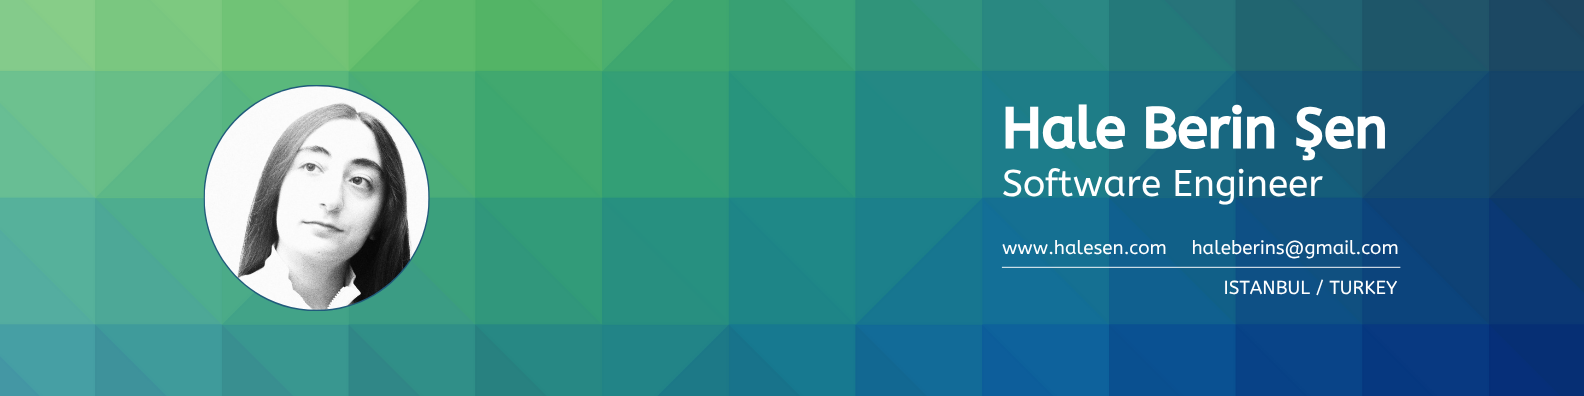
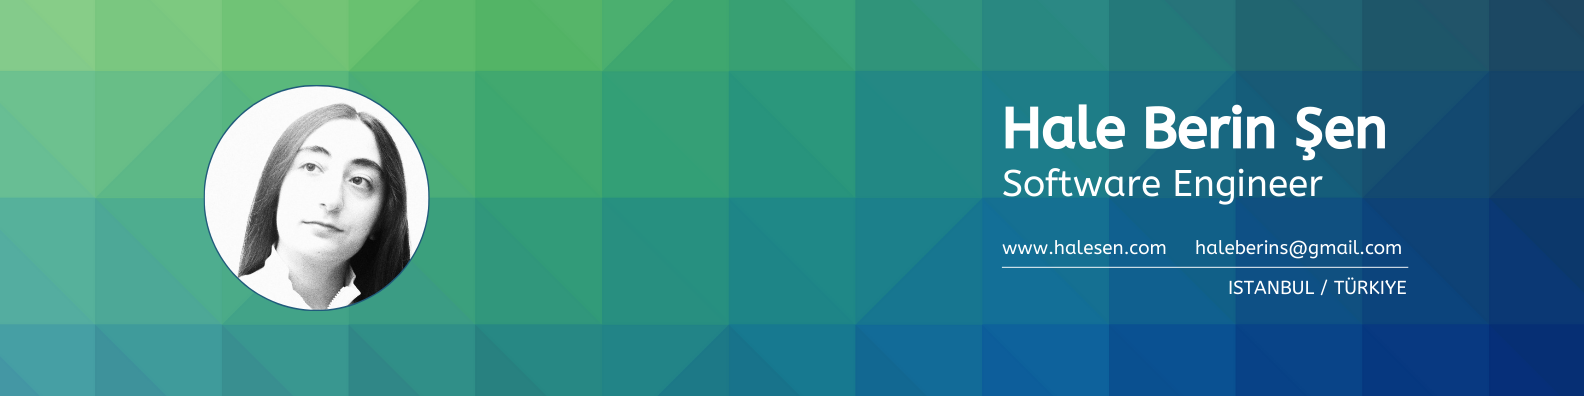
Feat:Fixed bugs

Changed region(s): [[0.7424, 0.6061, 0.8971, 0.6667], [0.7734, 0.697, 0.8971, 0.7576]]

diff --git a/src/components/navigations/TopNavBar.tsx b/src/components/navigations/TopNavBar.tsx
@@ -1,3 +1,4 @@
+import { useState } from "react";
 import AppBar from "@mui/material/AppBar";
 import Toolbar from "@mui/material/Toolbar";
 import Typography from "@mui/material/Typography";
@@ -5,6 +6,13 @@ import Button from "@mui/material/Button";
 import IconButton from "@mui/material/IconButton";
 import Brightness4Icon from "@mui/icons-material/Brightness4";
 import Brightness7Icon from "@mui/icons-material/Brightness7";
+import MenuIcon from "@mui/icons-material/Menu";
+import Drawer from "@mui/material/Drawer";
+import List from "@mui/material/List";
+import ListItem from "@mui/material/ListItem";
+import ListItemButton from "@mui/material/ListItemButton";
+import ListItemText from "@mui/material/ListItemText";
+import Box from "@mui/material/Box";
 import { Link as ScrollLink } from "react-scroll";
 
 interface TopNavBarProps {
@@ -13,53 +21,92 @@ interface TopNavBarProps {
 }
 
 export default function TopNavBar({ toggleColorMode, mode }: TopNavBarProps) {
+  const [mobileOpen, setMobileOpen] = useState(false);
+
+  const menuItems = [
+    { label: "Home", to: "home" },
+    { label: "Timeline", to: "timeline" },
+    { label: "Contact", to: "contact" },
+  ];
+
+  const drawer = (
+    <Box
+      sx={{ width: 250 }}
+      role="presentation"
+      onClick={() => setMobileOpen(false)}
+    >
+      <List>
+        {menuItems.map((item) => (
+          <ListItem key={item.to} disablePadding>
+            <ListItemButton
+              component={ScrollLink}
+              to={item.to}
+              smooth={true}
+              duration={500}
+              offset={-64}
+            >
+              <ListItemText primary={item.label} />
+            </ListItemButton>
+          </ListItem>
+        ))}
+      </List>
+    </Box>
+  );
+
   return (
-    <AppBar position="fixed">
-      <Toolbar>
-        <Typography variant="h4" sx={{ flexGrow: 1 }}>
-          DEMO
-        </Typography>
+    <>
+      <AppBar position="fixed">
+        <Toolbar>
+          <Typography variant="h5" sx={{ flexGrow: 1 }}>
+            Hale Berin Şen
+          </Typography>
 
-        <Button
-          color="inherit"
-          component={ScrollLink}
-          to="home"
-          smooth={true}
-          duration={500}
-          offset={-64}
-        >
-          Home
-        </Button>
-        <Button
-          color="inherit"
-          component={ScrollLink}
-          to="timeline"
-          smooth={true}
-          duration={500}
-          offset={-64}
-        >
-          Timeline
-        </Button>
-        <Button
-          color="inherit"
-          component={ScrollLink}
-          to="contact"
-          smooth={true}
-          duration={500}
-          offset={-64}
-        >
-          Contact
-        </Button>
+          {/* Masaüstü menü */}
+          <Box sx={{ display: { xs: "none", sm: "block" } }}>
+            {menuItems.map((item) => (
+              <Button
+                key={item.to}
+                color="inherit"
+                component={ScrollLink}
+                to={item.to}
+                smooth={true}
+                duration={500}
+                offset={-64}
+              >
+                {item.label}
+              </Button>
+            ))}
+          </Box>
 
-        <IconButton
-          sx={{ ml: 1 }}
-          onClick={toggleColorMode}
-          color="inherit"
-          aria-label="toggle light/dark theme"
-        >
-          {mode === "dark" ? <Brightness7Icon /> : <Brightness4Icon />}
-        </IconButton>
-      </Toolbar>
-    </AppBar>
+          <IconButton
+            sx={{ ml: 1 }}
+            onClick={toggleColorMode}
+            color="inherit"
+            aria-label="toggle light/dark theme"
+          >
+            {mode === "dark" ? <Brightness7Icon /> : <Brightness4Icon />}
+          </IconButton>
+
+          {/* Mobil menü butonu */}
+          <IconButton
+            sx={{ display: { xs: "block", sm: "none" } }}
+            color="inherit"
+            edge="end"
+            onClick={() => setMobileOpen(true)}
+          >
+            <MenuIcon />
+          </IconButton>
+        </Toolbar>
+      </AppBar>
+
+      <Drawer
+        anchor="right"
+        open={mobileOpen}
+        onClose={() => setMobileOpen(false)}
+        ModalProps={{ keepMounted: true }}
+      >
+        {drawer}
+      </Drawer>
+    </>
   );
 }

diff --git a/index.html b/index.html
@@ -3,59 +3,89 @@
   <head>
     <meta charset="UTF-8" />
     <meta name="viewport" content="width=device-width, initial-scale=1.0" />
-
     <title>Hale Berin Şen</title>
 
-    <!-- Favicon ve iconlar -->
-    <link rel="shortcut icon" href="/favicon.ico" type="image/x-icon" />
-    <link rel="icon" type="image/x-icon" href="/favicon.ico" />
+    <!-- Favicon -->
+    <link rel="shortcut icon" href="./favicon.ico?v=3" type="image/x-icon" />
+    <link rel="icon" type="image/x-icon" href="./favicon.ico?v=3" />
 
-    <!-- Apple Touch Iconlar -->
-    <link rel="apple-touch-icon" sizes="57x57" href="/apple-icon-57x57.png" />
-    <link rel="apple-touch-icon" sizes="60x60" href="/apple-icon-60x60.png" />
-    <link rel="apple-touch-icon" sizes="72x72" href="/apple-icon-72x72.png" />
-    <link rel="apple-touch-icon" sizes="76x76" href="/apple-icon-76x76.png" />
+    <!-- Apple Touch Icons -->
+    <link
+      rel="apple-touch-icon"
+      sizes="57x57"
+      href="./apple-icon-57x57.png?v=3"
+    />
+    <link
+      rel="apple-touch-icon"
+      sizes="60x60"
+      href="./apple-icon-60x60.png?v=3"
+    />
+    <link
+      rel="apple-touch-icon"
+      sizes="72x72"
+      href="./apple-icon-72x72.png?v=3"
+    />
+    <link
+      rel="apple-touch-icon"
+      sizes="76x76"
+      href="./apple-icon-76x76.png?v=3"
+    />
     <link
       rel="apple-touch-icon"
       sizes="114x114"
-      href="/apple-icon-114x114.png"
+      href="./apple-icon-114x114.png?v=3"
     />
     <link
       rel="apple-touch-icon"
       sizes="120x120"
-      href="/apple-icon-120x120.png"
+      href="./apple-icon-120x120.png?v=3"
     />
     <link
       rel="apple-touch-icon"
       sizes="144x144"
-      href="/apple-icon-144x144.png"
+      href="./apple-icon-144x144.png?v=3"
     />
     <link
       rel="apple-touch-icon"
       sizes="152x152"
-      href="/apple-icon-152x152.png"
+      href="./apple-icon-152x152.png?v=3"
     />
     <link
       rel="apple-touch-icon"
       sizes="180x180"
-      href="/apple-icon-180x180.png"
+      href="./apple-icon-180x180.png?v=3"
     />
 
-    <!-- Android Iconlar -->
+    <!-- Android Icons -->
     <link
       rel="icon"
       type="image/png"
       sizes="192x192"
-      href="/android-icon-192x192.png"
+      href="./android-icon-192x192.png?v=3"
     />
-    <link rel="icon" type="image/png" sizes="32x32" href="/favicon-32x32.png" />
-    <link rel="icon" type="image/png" sizes="96x96" href="/favicon-96x96.png" />
-    <link rel="icon" type="image/png" sizes="16x16" href="/favicon-16x16.png" />
+    <link
+      rel="icon"
+      type="image/png"
+      sizes="32x32"
+      href="./favicon-32x32.png?v=3"
+    />
+    <link
+      rel="icon"
+      type="image/png"
+      sizes="96x96"
+      href="./favicon-96x96.png?v=3"
+    />
+    <link
+      rel="icon"
+      type="image/png"
+      sizes="16x16"
+      href="./favicon-16x16.png?v=3"
+    />
 
-    <!-- Manifest ve MS tile -->
-    <link rel="manifest" href="/manifest.json" />
+    <!-- Manifest & Windows Tile -->
+    <link rel="manifest" href="./manifest.json" />
     <meta name="msapplication-TileColor" content="#ffffff" />
-    <meta name="msapplication-TileImage" content="/ms-icon-144x144.png" />
+    <meta name="msapplication-TileImage" content="./ms-icon-144x144.png?v=3" />
     <meta name="theme-color" content="#ffffff" />
   </head>
   <body>

diff --git a/src/App.tsx b/src/App.tsx
@@ -1,6 +1,6 @@
 import { useState, useMemo } from "react";
-import { ThemeProvider, CssBaseline, Stack } from "@mui/material";
-import { getTheme } from "./theme"; // adjust path if needed
+import { ThemeProvider, CssBaseline, Stack, Box } from "@mui/material";
+import { getTheme } from "./theme";
 import TopNavBar from "./components/navigations/TopNavBar";
 import Home from "./components/pages/Home";
 import Timeline from "./components/pages/Timeline";
@@ -19,13 +19,20 @@ function App() {
     <ThemeProvider theme={theme}>
       <CssBaseline />
       <TopNavBar toggleColorMode={toggleColorMode} mode={mode} />
-      <div style={{ paddingTop: 64, maxWidth: 900, margin: "auto" }}>
-        <Stack spacing={50}>
+
+      <Box
+        sx={{
+          pt: { xs: 2, sm: 4, md: 8 },
+          maxWidth: 900,
+          mx: "auto",
+        }}
+      >
+        <Stack spacing={{ xs: 8, sm: 16, md: 50 }}>
           <Home />
           <Timeline />
           <ContactForm />
         </Stack>
-      </div>
+      </Box>
     </ThemeProvider>
   );
 }
